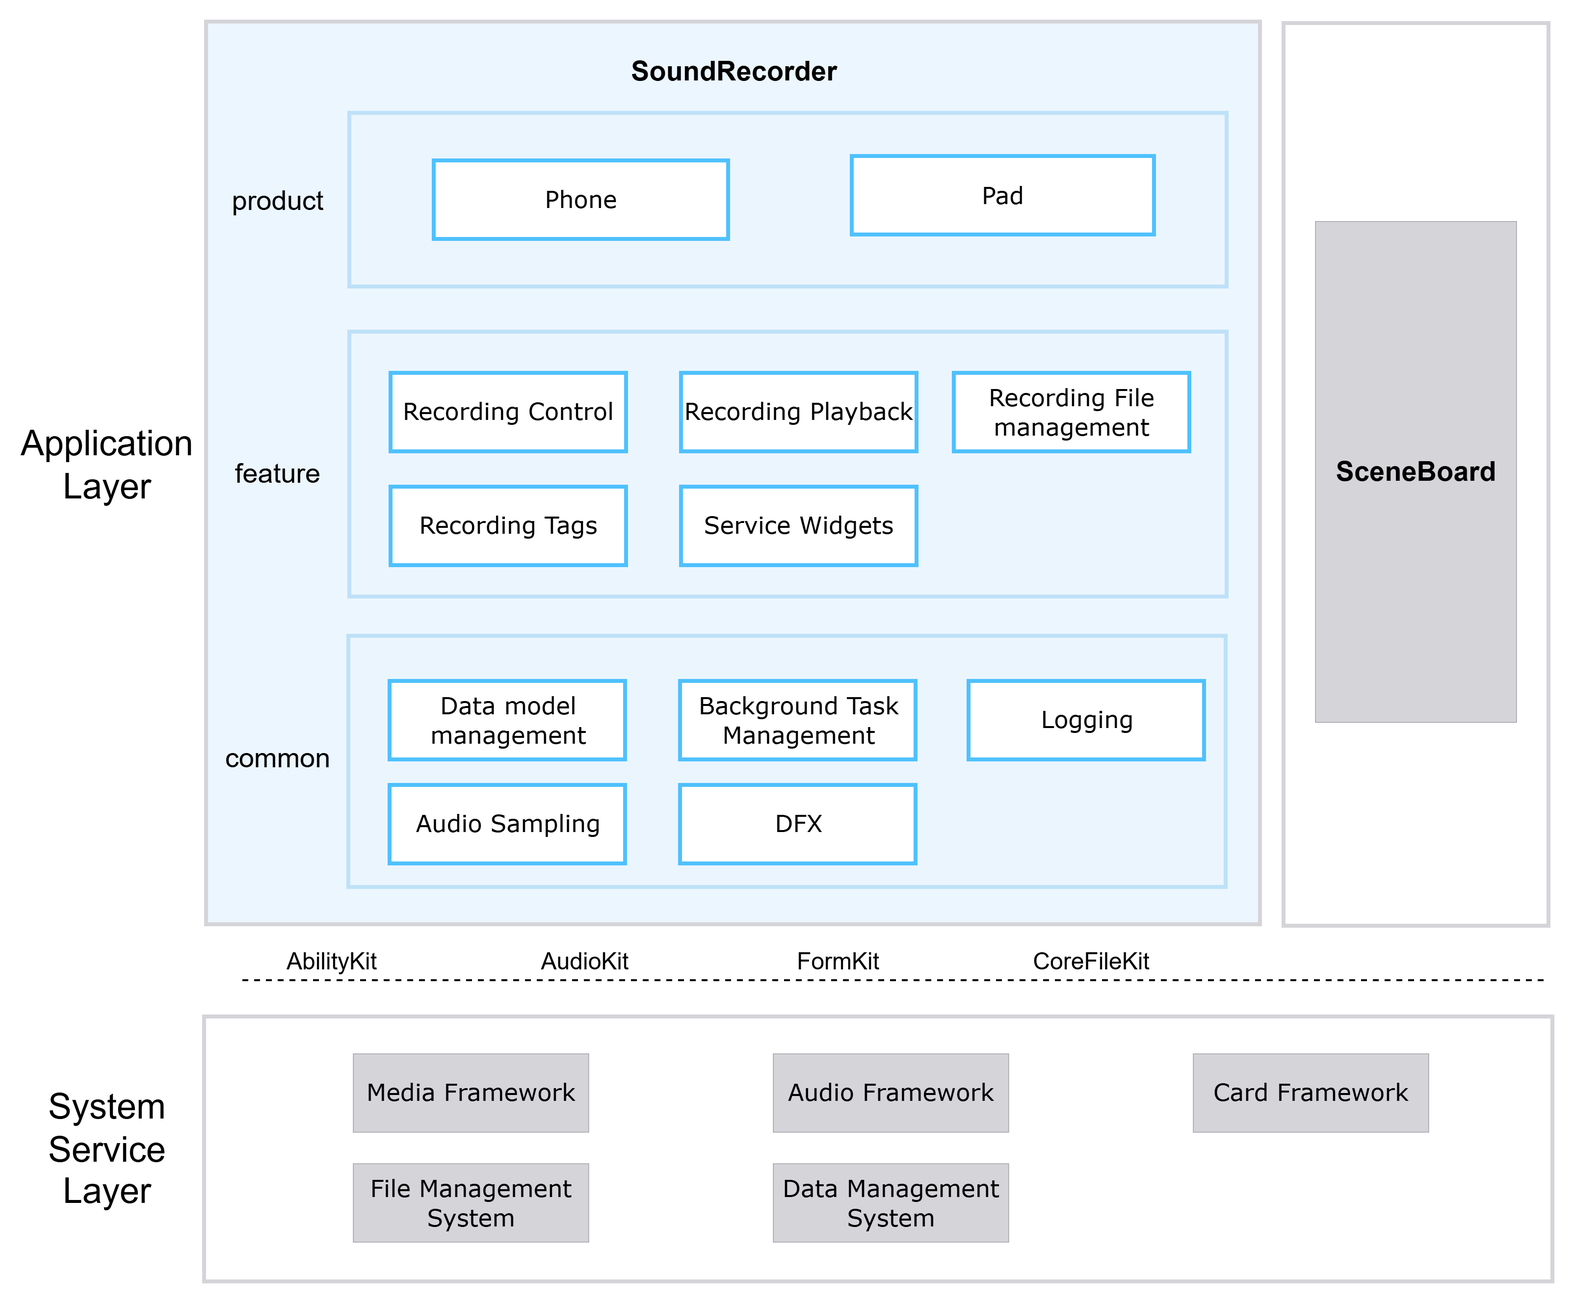
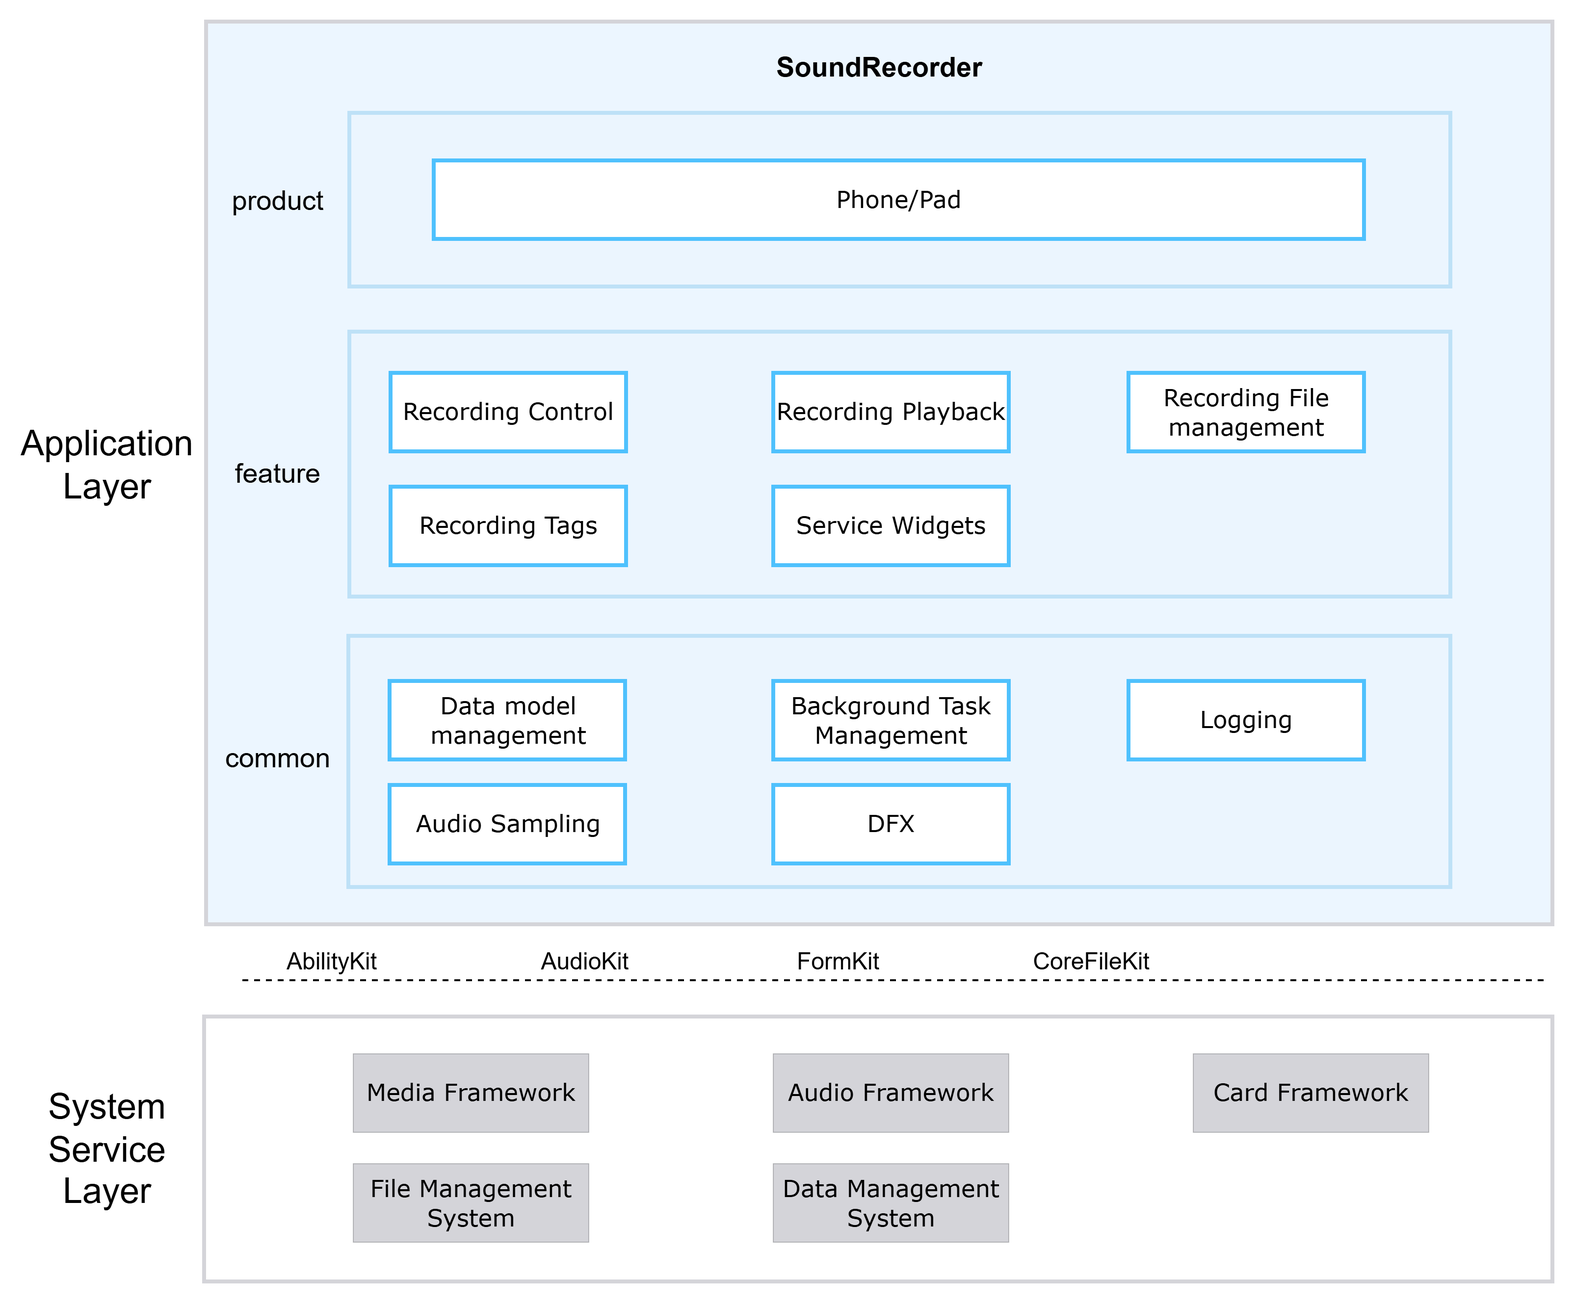
修改readme、架构图

diff --git a/README.md b/README.md
@@ -2,9 +2,9 @@
 
 ## Introduction
 
-**SoundRecorder** (bundle name: `com.ohos.soundrecorder`) is a pre-installed **system application** in OpenHarmony. It captures audio through the microphone, providing recording control, recording playback, recording file management, recording tags, and service widgets. It adapts to phone and tablet device forms.
+**SoundRecorder** (bundle name: `com.ohos.soundrecorder`) is a pre-installed **system application** in OpenHarmony. It captures audio through the microphone, providing recording control, recording playback, recording file management, recording tags, and service cards. It adapts to phone and tablet device forms.
 
-This application is a system preset app. Users can enter the recorder from the desktop icon or service widgets.
+This application is a system preset app. Users can enter the recorder from the desktop icon or service cards.
 
 ### Core Capabilities
 
@@ -12,7 +12,8 @@ This application is a system preset app. Users can enter the recorder from the d
 - Supports start, pause, resume, and stop, with waveform and duration display during recording.
 - Supports notification / Live View controls.
 - Supports background continuous task keep-alive.
-- Manages the recording state machine. After recording ends, files are saved to the application directory and synchronized to the database.
+- Does not support call recording or in-app recording. It follows the audio framework focus policy and only records microphone audio.
+- Manages the recording state machine. After recording ends, files are saved to the system public directory `/storage/Users/currentUser/Sounds` and synchronized to the database.
 
 **Recording Playback**
 - Supports play, pause, seek, and playback speed control.
@@ -26,8 +27,8 @@ This application is a system preset app. Users can enter the recorder from the d
 **Recording Tags**
 - Supports adding, editing, and jumping to tags during recording or playback for quick navigation to key segments.
 
-**Service Widgets**
-- Provides 2×1 and 2×2 recording widgets for quick recording or entering the recorder.
+**Service Cards**
+- Provides 2×1 and 2×2 recording cards for quick recording or entering SoundRecorder.
 
 ## Architecture
 
@@ -38,40 +39,36 @@ SoundRecorder uses a layered and modular design organized by product form, busin
 
 The overall structure is divided into the product layer, feature layer, and common layer:
 
-| Layer | Main Directories / Components | Description |
-| ----- | ----------------------------- | ----------- |
+| Layer | Main Directories | Description |
+| ----- | ---------------- | ----------- |
 | Product layer | `product` | Supports phone and tablet forms |
-| Feature layer | `feature/recorder`, `feature/database_manager`, `feature/file_manager`, `feature/recorderFA` | Recording control, recording playback, recording file management, recording tags, service widgets |
+| Feature layer | `feature/recorder`, `feature/database_manager`, `feature/file_manager`, `feature/recorderFA` | Recording control, recording playback, recording file management, recording tags, service cards |
 | Common layer | `common` | Data model management, background task management, logging, audio sampling, DFX utilities |
 
 **Feature layer module description**:
 
-| Core Capability | Module | Description |
-| --------------- | ------ | ----------- |
-| Recording control | RecordingPage, RecordManager, BaseViewModel, AudioSDKManager | Recording state machine, audio capture, waveform display |
-| Recording playback | RecordPlayPage, PlayManager, AvSessionManager, MediaController | Playback control, AVSession media session, speed control |
-| Recording file management | AudioRecordListComponent, DatabaseManager, FileManager, RecordWatcher | Recording list, recently deleted, search, sorting |
-| Recording tags | MarkComponent, MarkListComponent | Add, edit, and jump to tags |
-| Service widgets | FormAbility | Widget management, widget status sync |
+| Core Capability | Module and Key Classes | Description |
+| --------------- | ---------------------- | ----------- |
+| Recording control | `feature/recorder` (RecordingPage, RecordManager, BaseViewModel) | Recording state machine, audio capture, waveform display |
+| Recording playback | `feature/recorder` (RecordPlayPage, PlayManager, MediaController) | Playback control, AVSession media session, speed control |
+| Recording tags | `feature/recorder` (MarkComponent, MarkListComponent) | Add, edit, and jump to tags |
+| Recording file management | `feature/file_manager`, `feature/database_manager` (AudioRecordListComponent, DatabaseManager, FileManager) | Recording list, recently deleted, search, sorting |
+| Service cards | `feature/recorderFA` (FormAbility) | Card management, card status sync |
 
 ### Relationship with Other Applications
 
-SoundRecorder currently only allows calls from SceneBoard.
+SoundRecorder currently only allows SceneBoard to launch it from the desktop icon or service card entry.
 
 **Calling method**:
 
 SoundRecorder MainAbility declares exported=true. SceneBoard can launch SoundRecorder via Want.
-
-**Calling scenarios**:
-
-Scenarios include desktop icon, service widgets, lock-screen entry, and notification bar.
 
 ## Build
 
 This project is a multi-module application project, containing 1 entry HAP (`product/phone`) and 5 HAR static shared libraries (`common`, `recorder`, `recorderFA`, `database_manager`, `file_manager`). HARs are packaged into the HAP at compile time. The project is built with Hvigor, and the output is the `com.ohos.soundrecorder` system application package.
 
 ### Environment Requirements
-- OpenHarmony SDK (this project uses `compileSdkVersion` 23 and `compatibleSdkVersion` / `targetSdkVersion` 20)
+- OpenHarmony SDK (this project uses `compileSdkVersion` 26 and `compatibleSdkVersion` / `targetSdkVersion` 20)
 - DevEco Studio or command-line Hvigor toolchain
 - System signing certificates (see `signature/`)
 
@@ -90,7 +87,7 @@ SoundRecorder is developed in **ArkTS**, with UI based on the ArkUI Stage model.
 
 ### Development Based on Existing Modules
 
-Applicable scenarios: customize existing capabilities, such as adjusting playback interaction, extending list features, modifying widget display, or optimizing delete/recover logic.
+Applicable scenarios: customize existing capabilities, such as adjusting playback interaction, extending list features, modifying card display, or optimizing delete/recover logic.
 
 Locate the change by business boundary: `product/phone` (entry and home), `feature/recorder` (recording/playback), `feature/database_manager` (data), `feature/file_manager` (files), or `common` (shared capabilities).
 
@@ -181,12 +178,12 @@ Common modification entry points:
 | Recording playback page | `feature/recorder/src/main/ets/pages/RecordPlayPage.ets` |
 | Recording file management | `feature/file_manager/`, `feature/database_manager/`, `common/src/main/ets/utils/DatabaseManager.ets` |
 | Recording tag component | `feature/recorder/src/main/ets/components/MarkComponent.ets` |
-| Service widgets | `product/phone/src/main/ets/widget/pages/`, `feature/recorderFA/` |
+| Service cards | `product/phone/src/main/ets/form`, `feature/recorderFA/` |
 | UI components | `feature/recorder/src/main/ets/components`, `common/src/main/ets/components/` |
 
 ### Developing New Capabilities
 
-Applicable scenarios: add recording-related capabilities, extend widget forms, introduce differentiated interaction, or adapt new device forms.
+Applicable scenarios: add recording-related capabilities, extend card forms, introduce differentiated interaction, or adapt new device forms.
 
 > **Note**: The current project uses a multi-module `product + feature + common` structure, with the main product entry under `product/phone`. New capabilities are usually extended within the existing layers. If a new product-form HAP is needed, add a directory under `product/` and register it in `build-profile.json5`.
 
@@ -195,7 +192,7 @@ Applicable scenarios: add recording-related capabilities, extend widget forms, i
 1. Add page, controller, or ViewModel logic in `feature/recorder`.
 2. If persistence is involved, extend table access in `feature/database_manager` and expose it through the `DatabaseManager` facade.
 3. If file changes are involved, extend watching or file services in `feature/file_manager`.
-4. If widgets are involved, extend both `feature/recorderFA` and widget pages under `product/phone`.
+4. If service cards are involved, extend both `feature/recorderFA` and card pages under `product/phone`.
 5. Add UT / DT cases under `product/phone/src/ohosTest` and register them in `List.test.ets`.
 6. Configure / confirm Ability entry
 
@@ -232,7 +229,7 @@ Applicable scenarios: add recording-related capabilities, extend widget forms, i
 
 **Scenario 2: Customize UI**
 
-After business capabilities and Ability configuration are ready, extend the home page, recording page, playback page, list components, or widget pages as described in the previous section for UI component modification.
+After business capabilities and Ability configuration are ready, extend the home page, recording page, playback page, list components, or card pages as described in the previous section for UI component modification.
 
 If a new independent page is required:
 1. Add the page file under the module `pages/` directory;
@@ -256,7 +253,6 @@ soundrecorder
 ├─feature                               # Feature layer
 │  ├─recorder/                          # Core recording and playback business
 │  │  └─src/main/ets/
-│  │     ├─audiokit/                    # Recording SDK wrappers
 │  │     ├─components/                  # Page components, including list, waveform, sidebar, etc.
 │  │     ├─controller/                  # Recording / playback controllers
 │  │     ├─pages/                       # Recording, playback, about pages
@@ -265,19 +261,18 @@ soundrecorder
 │  │     └─service/                     # Data request services
 │  ├─database_manager/                  # Recording / call / tag database
 │  ├─file_manager/                      # File watching and call-recording file services
-│  └─recorderFA/                        # Service widget data and control
+│  └─recorderFA/                        # Service card data and control
 ├─product                               # Product layer
 │  └─phone/                             # Phone / tablet HAP
 │     └─src/main/ets/
 │        ├─Application/                 # Application lifecycle management
 │        ├─MainAbility/                 # Application main entry
 │        ├─pages/                       # Home page
-│        ├─form/                        # Service widget lifecycle management
-│        └─widget/pages/                # 2×1, 2×2 widgets
+│        ├─form/                        # Service card lifecycle management, 2×1 and 2×2 cards
 ├─hvigor                                # Build tool configuration
 ├─signature                             # Signing certificates and profile
 ├─open_source                           # Open-source notice materials
-├─build-profile.json5                   # Project-level SDK / signing / product config
+├─build-profile.json5                   # Project-level configuration
 ├─oh-package.json5
 ├─OAT.xml                               # OSS compliance audit
 ├─LICENSE
@@ -297,11 +292,9 @@ soundrecorder
   | ohos.permission.MICROPHONE | User authorization | Audio recording capture |
   | ohos.permission.KEEP_BACKGROUND_RUNNING | System grant | Background continuous task keep-alive during recording |
   | ohos.permission.GET_TELEPHONY_STATE | System grant | Call state monitoring, auto-pause recording on incoming call |
-  | ohos.permission.MODIFY_AUDIO_SETTINGS | System grant | Audio settings |
   | ohos.permission.FILE_ACCESS_MANAGER | System grant | File access management |
 
 - **Supported audio formats**: m4a, wav
-
 
 ## Contribution
 

diff --git a/README_zh.md b/README_zh.md
@@ -2,9 +2,9 @@
 
 ## 简介
 
-**录音机**（包名：`com.ohos.soundrecorder`）是 OpenHarmony 中预置的 **系统应用**，应用通过麦克风采集音频，提供录音控制、录音播放、录音文件管理、录音标记、服务卡片能力，并适配手机、平板设备形态。
+**录音机**（包名：`com.ohos.soundrecorder`）是 OpenHarmony 中预置的 **系统应用**，应用通过麦克风采集音频，提供录音控制、录音播放、录音文件管理、录音标记、服务卡片能力，并适配手机、平板设备形态。用户可从桌面图标、服务卡片进入录音机。
 
-本应用为系统预置应用，用户可从桌面图标、服务卡片进入录音机。
+本应用不支持通话录音与应用内录音，遵从音频框架的音频焦点策略，只录制麦克风音频。
 
 ### 核心能力
 
@@ -12,7 +12,7 @@
 - 支持开始、暂停、继续与结束录音，录音过程中展示波形与时长。
 - 支持通知栏 / 实况窗控制。
 - 支持后台连续任务保活。
-- 完成录音状态机管理，录音结束后将文件保存到应用目录并同步写入数据库。
+- 完成录音状态机管理，录音结束后将文件保存到系统公共目录`/storage/Users/currentUser/Sounds`下并同步写入数据库。
 
 **录音播放**
 - 支持播放、暂停、进度拖动与倍速播放。
@@ -38,40 +38,36 @@
 
 整体可划分为产品层、特性层、公共层：
 
-| 层次   | 主要目录 / 组件 | 说明                                     |
-|------| -------------- |----------------------------------------|
-| 产品层 | `product` | 支持手机、平板形态       |
+| 层次   | 主要目录     | 说明     |
+|------|-------------------------------------------------------------------------------------------|----------------------------------------|
+| 产品层 | `product`                                                                                 | 支持手机、平板形态       |
 | 特性层 | `feature/recorder`、`feature/database_manager`、`feature/file_manager`、`feature/recorderFA` | 录音控制、录音播放、录音文件管理、录音标记、服务卡片       |
-| 公共层 | `common` | 数据模型管理、后台任务管理、日志工具、音频采样处理、DFX工具 |
+| 公共层 | `common`                                                                                  | 数据模型管理、后台任务管理、日志工具、音频采样处理、DFX工具 |
 
 **特性层模块说明**：
 
-| 核心能力   | 模块       | 说明                      |
-|--------|----------------|-------------------------|
-| 录音控制   | RecordingPage, RecordManager, BaseViewModel, AudioSDKManager    | 录音状态机、音频采集、波形展示         |
-| 录音播放   | RecordPlayPage, PlayManager, AvSessionManager, MediaController	 | 播放控制、AVSession媒体会话、倍速播放 |
-| 录音文件管理 | AudioRecordListComponent, DatabaseManager, FileManager, RecordWatcher | 录音列表/最近删除/搜索/排序         |
-| 录音标记   | MarkComponent, MarkListComponent   | 添加/编辑/跳转标记              |
-| 服务卡片   | FormAbility   | 卡片管理、卡片状态同步             |
+| 核心能力   | 模块与关键类                | 说明                      |
+|--------|-----------------------------------------------------------------------------------------------------------|-------------------------|
+| 录音控制   | `feature/recorder`（RecordingPage, RecordManager, BaseViewModel）                                           | 录音状态机、音频采集、波形展示         |
+| 录音播放   | `feature/recorder`（RecordPlayPage, PlayManager, MediaController）	                                         | 播放控制、AVSession媒体会话、倍速播放 |
+| 录音标记   | `feature/recorder`（MarkComponent, MarkListComponent）                                                      | 添加/编辑/跳转标记              |
+| 录音文件管理 | `feature/file_manager`、`feature/database_manager`（AudioRecordListComponent, DatabaseManager, FileManager） | 录音列表/最近删除/搜索/排序         |
+| 服务卡片   | `feature/recorderFA`（FormAbility）                                                                         | 卡片管理、卡片状态同步             |
 
 ### 与其它应用的关系
 
-录音机目前仅允许SceneBoard调用。
+录音机目前仅允许SceneBoard从桌面图标、服务卡片入口拉起。
 
 **调用方式**：
 
 录音机 MainAbility 声明 exported=true，SceneBoard 可通过 Want 拉起录音机。
-
-**调用场景**：
-
-场景包括桌面图标、服务卡片、锁屏入口、通知栏。
 
 ## 编译构建
 
 本工程为多模块应用工程，包含 1 个入口 HAP（`product/phone`）和 5 个 HAR 静态共享库（`common`、`recorder`、`recorderFA`、`database_manager`、`file_manager`），HAR 在编译时打包进 HAP，使用 Hvigor 构建，产物为 `com.ohos.soundrecorder` 系统应用包。
 
 ### 环境要求
-- OpenHarmony SDK（本工程 `compileSdkVersion` 为 23，`compatibleSdkVersion` / `targetSdkVersion` 为 20）
+- OpenHarmony SDK（本工程 `compileSdkVersion` 为 26，`compatibleSdkVersion` / `targetSdkVersion` 为 20）
 - DevEco Studio 或命令行 Hvigor 工具链
 - 系统签名证书（见 `signature/`）
 
@@ -180,9 +176,9 @@ function recordNameStyle() {
 | 录音控制   | `feature/recorder/src/main/ets/controller/RecordManager.ets`                                        |
 | 录音播放页  | `feature/recorder/src/main/ets/pages/RecordPlayPage.ets`                                            |
 | 录音文件管理 | `feature/file_manager/`、`feature/database_manager/`、`common/src/main/ets/utils/DatabaseManager.ets` |
-| 录音标记组件 | `feature/recorder/src/main/ets/components/MarkComponent.ets` |
-| 服务卡片   | `product/phone/src/main/ets/widget/pages/`、`feature/recorderFA/`                                    |
-| UI组件   | `feature/recorder/src/main/ets/components`、`common/src/main/ets/components/`                          |
+| 录音标记组件 | `feature/recorder/src/main/ets/components/MarkComponent.ets`                                        |
+| 服务卡片   | `product/phone/src/main/ets/form`、`feature/recorderFA/`                                             |
+| UI组件   | `feature/recorder/src/main/ets/components`、`common/src/main/ets/components/`                        |
 
 ### 新特性能力的开发
 
@@ -195,7 +191,7 @@ function recordNameStyle() {
 1. 在 `feature/recorder` 中补充页面、控制器或 ViewModel 逻辑。
 2. 如涉及持久化，在 `feature/database_manager` 中扩展表访问，并经 `DatabaseManager` 暴露。
 3. 如涉及文件变化，在 `feature/file_manager` 中补充监听或文件服务。
-4. 如涉及卡片，在 `feature/recorderFA` 与 `product/phone` 的 widget 页面中同步扩展。
+4. 如涉及卡片，在 `feature/recorderFA` 与 `product/phone` 的卡片页面中同步扩展。
 5. 在 `product/phone/src/ohosTest` 中补充对应 UT / DT 用例，并在 `List.test.ets` 中注册。
 6. 配置 / 确认 Ability 入口
 
@@ -256,7 +252,6 @@ soundrecorder
 ├─feature                               # 特性层
 │  ├─recorder/                          # 录音与播放核心业务
 │  │  └─src/main/ets/
-│  │     ├─audiokit/                    # 录音 SDK 封装
 │  │     ├─components/                  # 页面组件，包括列表、波形、侧栏等
 │  │     ├─controller/                  # 录音 / 播放等控制器
 │  │     ├─pages/                       # 录音页、播放页、关于页
@@ -272,12 +267,11 @@ soundrecorder
 │        ├─Application/                 # 应用生命周期管理
 │        ├─MainAbility/                 # 应用主入口
 │        ├─pages/                       # 首页
-│        ├─form/                        # 服务卡片生命周期管理
-│        └─widget/pages/                # 2×1、2×2卡片
+│        ├─form/                        # 服务卡片生命周期管理、2×1、2×2卡片
 ├─hvigor                                # 构建工具配置
 ├─signature                             # 签名证书与 profile
 ├─open_source                           # 开源声明材料
-├─build-profile.json5                   # 工程级 SDK / 签名 / product 配置
+├─build-profile.json5                   # 工程级配置
 ├─oh-package.json5
 ├─OAT.xml                               # 开源合规审计
 ├─LICENSE
@@ -297,11 +291,9 @@ soundrecorder
   | ohos.permission.MICROPHONE | 用户授权 | 录音音频采集 |
   | ohos.permission.KEEP_BACKGROUND_RUNNING | 系统授权 | 录音后台任务保活 |
   | ohos.permission.GET_TELEPHONY_STATE | 系统授权 | 通话状态监听，来电自动暂停录音 |
-  | ohos.permission.MODIFY_AUDIO_SETTINGS | 系统授权 | 音频设置 |
   | ohos.permission.FILE_ACCESS_MANAGER | 系统授权 | 文件访问管理 |
 
 - **支持的音频格式**：m4a、wav
-
 
 ## 参与贡献
 
